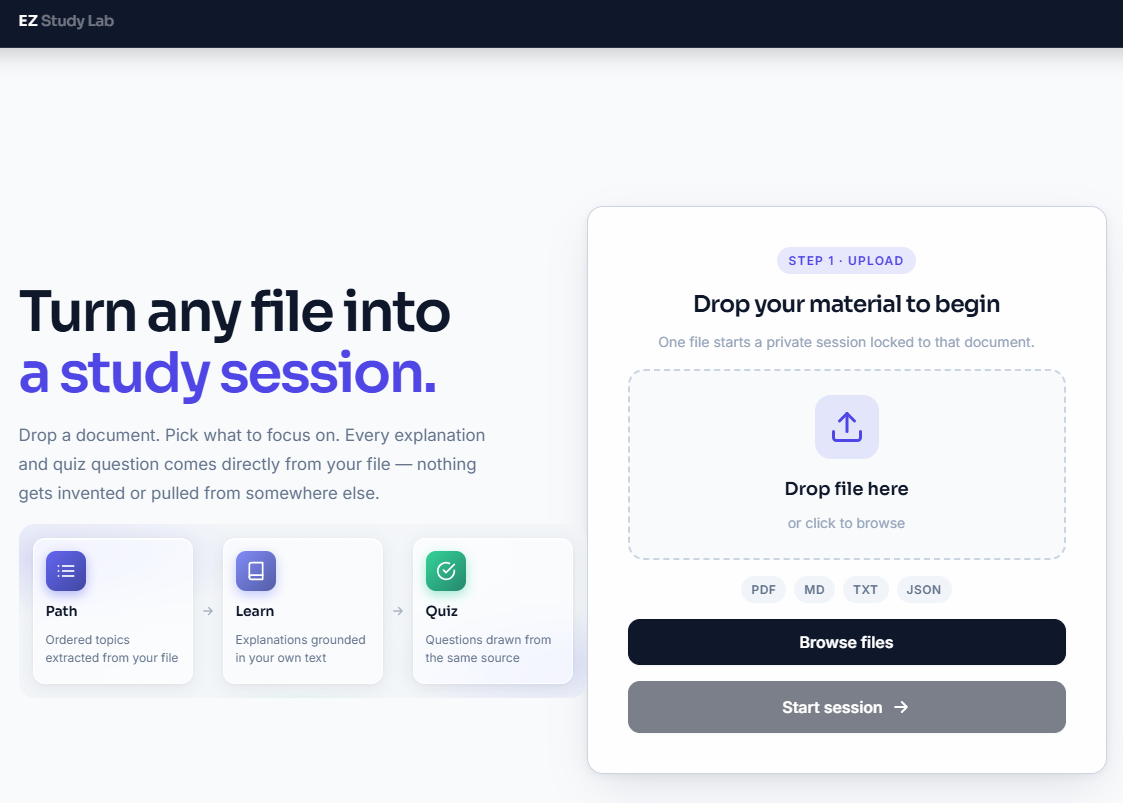
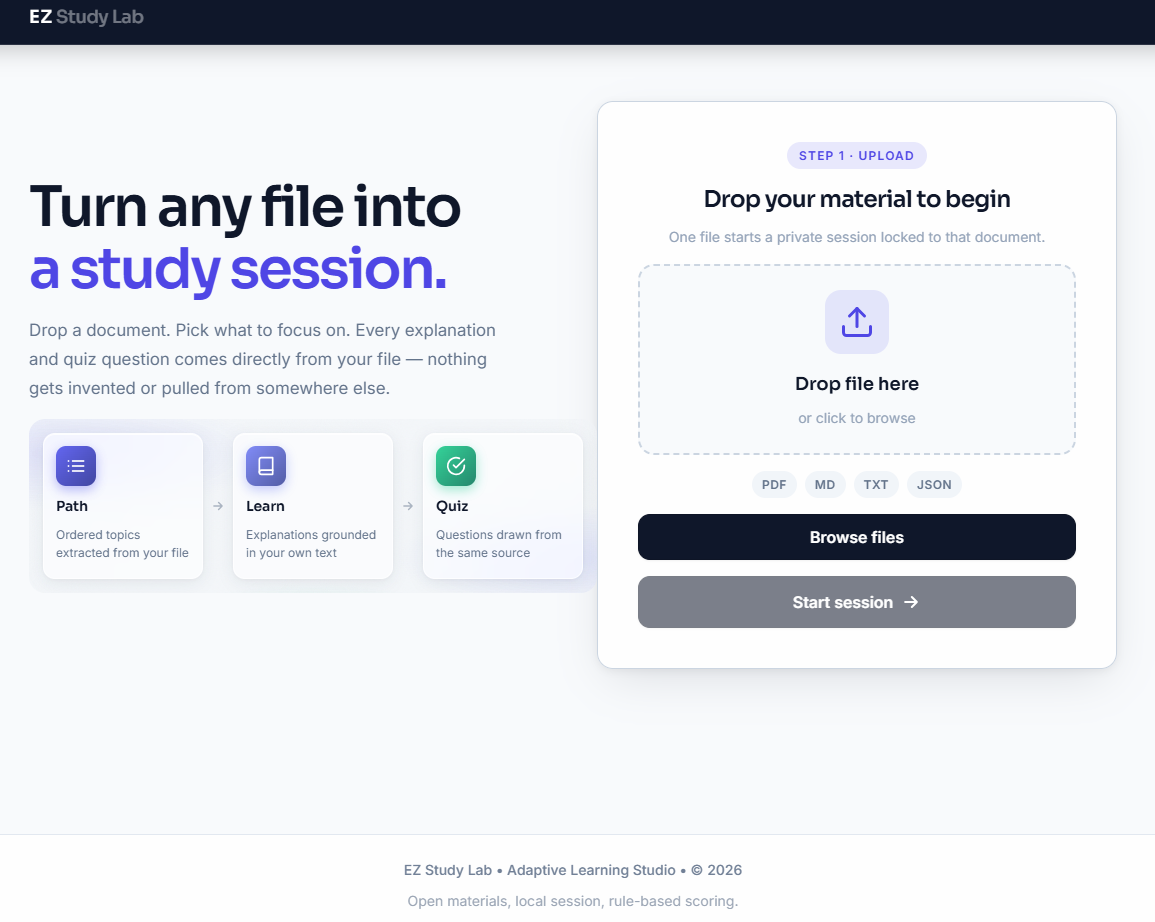
changed the whitespaces in UI

diff --git a/webui/src/style.css b/webui/src/style.css
@@ -255,7 +255,7 @@ p {
   align-items: baseline;
   gap: 0.18em;
   font-family: var(--font-display);
-  font-size: 15px;
+  font-size: 18px;
   line-height: 1;
   margin: 0;
   letter-spacing: -0.02em;
@@ -895,7 +895,7 @@ p {
   grid-template-columns: minmax(0, 1fr) minmax(320px, 520px);
   gap: clamp(var(--space-6), 6vw, var(--space-8));
   align-items: center;
-  min-height: calc(100dvh - 64px);
+  min-height: auto;
   padding: clamp(var(--space-5), 5vw, var(--space-7))
     clamp(var(--space-4), 5vw, var(--space-7));
   max-width: var(--layout-outer-max);
@@ -3663,8 +3663,8 @@ button:not(.btn-shadcn):not(.source-preview-dialog__close):focus-visible {
 
 /* Footer */
 .site-footer {
-  margin-top: auto;
-  padding: 40px var(--space-5);
+  margin-top: var(--space-6);
+  padding: 24px var(--space-5);
   border-top: 1px solid #e2e8f0;
   text-align: center;
   background: var(--color-bg-surface);
@@ -3754,8 +3754,8 @@ input[type="file"]::file-selector-button {
   }
 
   .brand__title {
-    font-size: clamp(1.5rem, 5.5vw, 32px);
-    text-align: center;
+    font-size: 18px;
+    text-align: left;
   }
 
   /* Mode bar: tighten padding on small screens */
